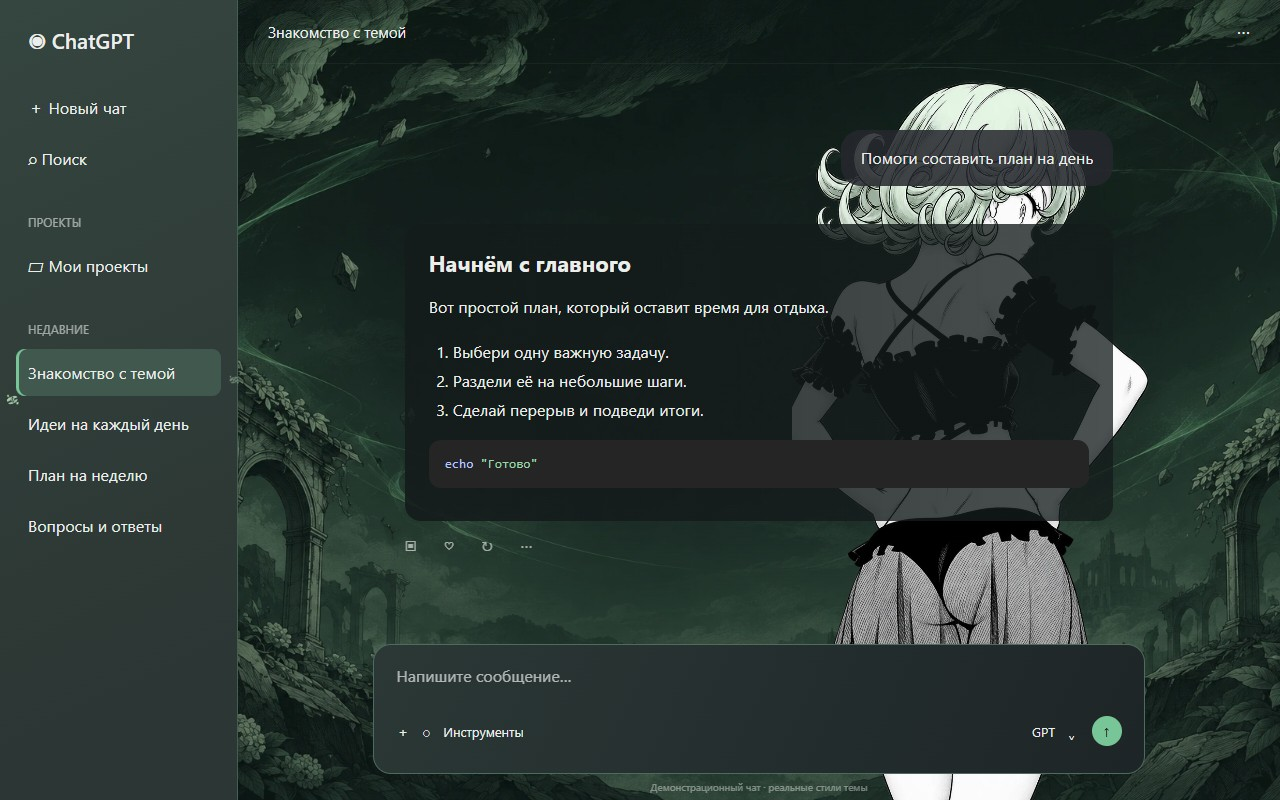
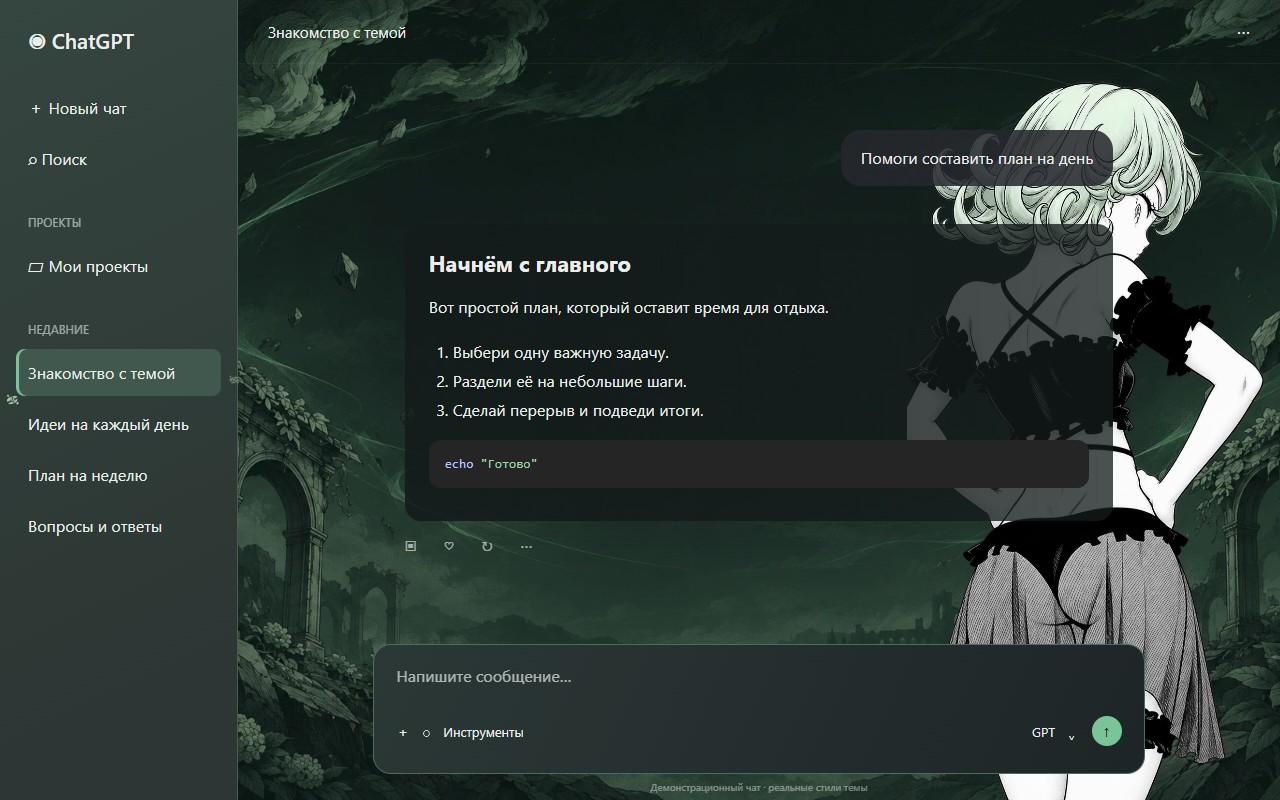
Move Jade Silhouette portrait further right

Changed region(s): [[0.625, 0.0938, 1.0, 1.0], [0.5938, 0.4688, 0.6562, 0.5625]]

diff --git a/themes/tatsumaki-jade-solo/theme.css b/themes/tatsumaki-jade-solo/theme.css
@@ -210,5 +210,5 @@ html.codex-theme-studio .main-surface:not(.main-surface .main-surface)::after {
 
 /* Original left portrait from Jade Duo, now alone on the right. */
 html.codex-theme-studio .main-surface:not(.main-surface .main-surface) {background:linear-gradient(#07131a18,#07131a28),var(--cts-asset-landscape) center / cover no-repeat,var(--night)!important;}
-html.codex-theme-studio body .main-surface:not(.main-surface .main-surface)::before {inset:auto 0 0 auto;height:90%;width:min(47%,61vh);aspect-ratio:auto;background:var(--cts-asset-portrait) right bottom / auto 100% no-repeat;mask-image:none!important;-webkit-mask-image:none!important;}
+html.codex-theme-studio body .main-surface:not(.main-surface .main-surface)::before {inset:auto -9vw 0 auto;height:90%;width:min(47%,61vh);aspect-ratio:auto;background:var(--cts-asset-portrait) right bottom / auto 100% no-repeat;mask-image:none!important;-webkit-mask-image:none!important;}
 html.codex-theme-studio .cts-halo,html.codex-theme-studio .cts-atmosphere {display:none!important;}
